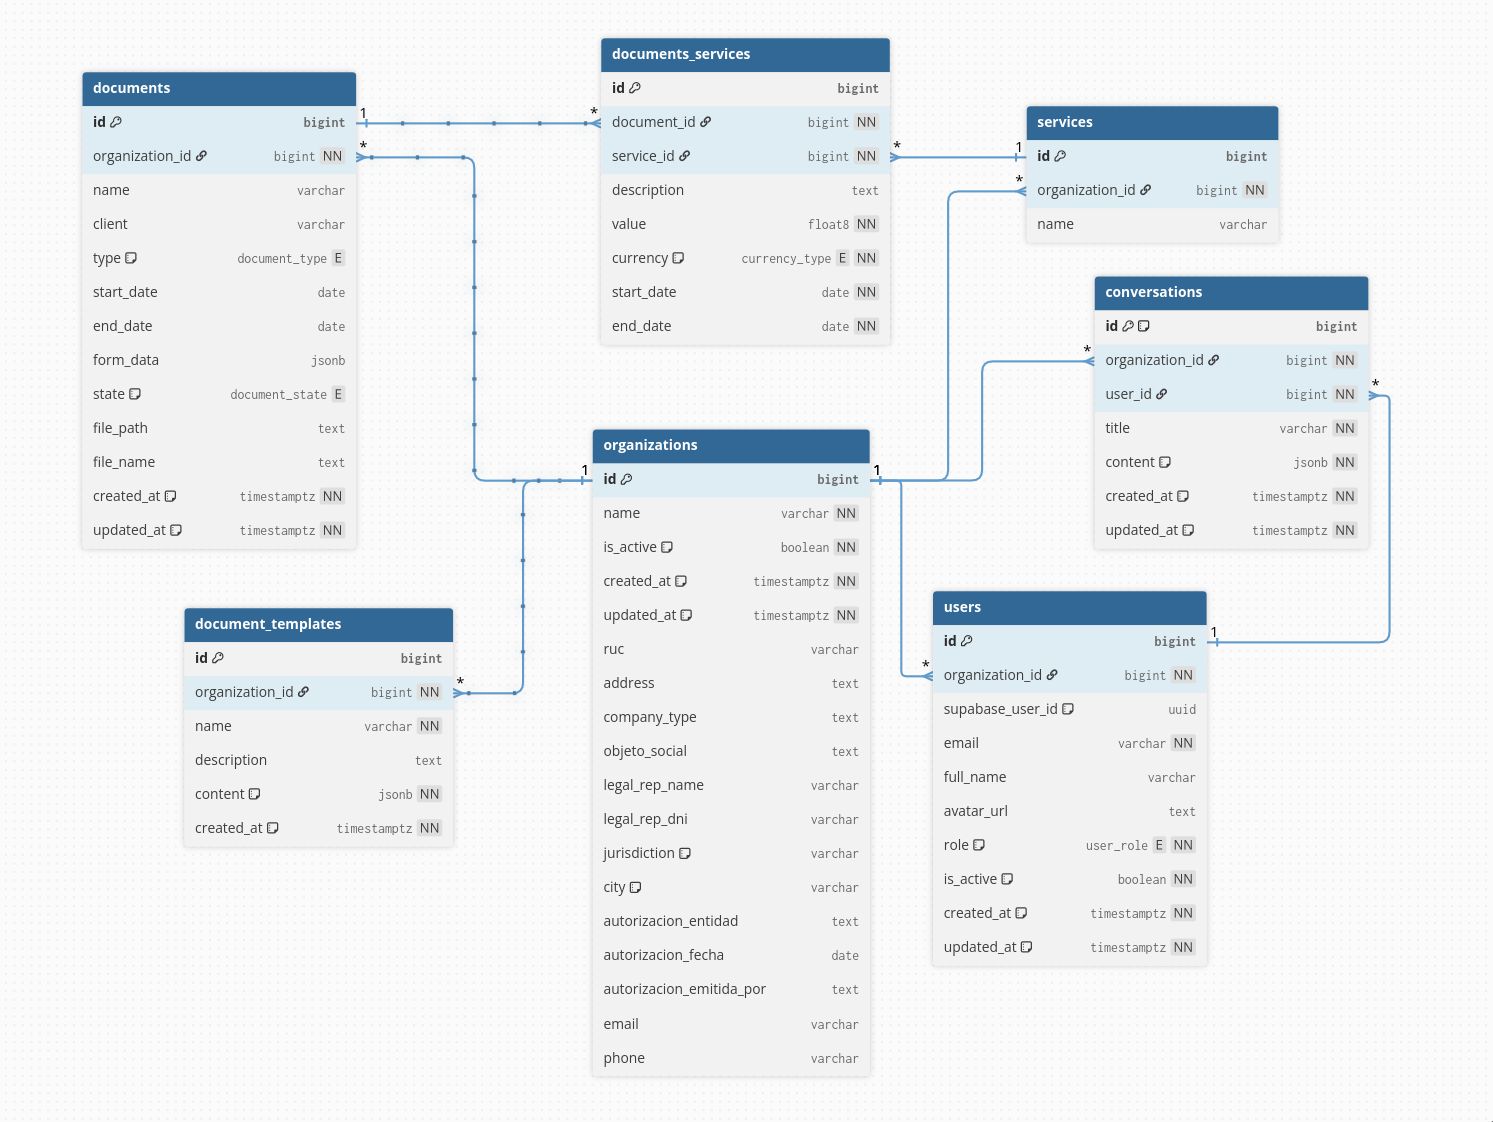
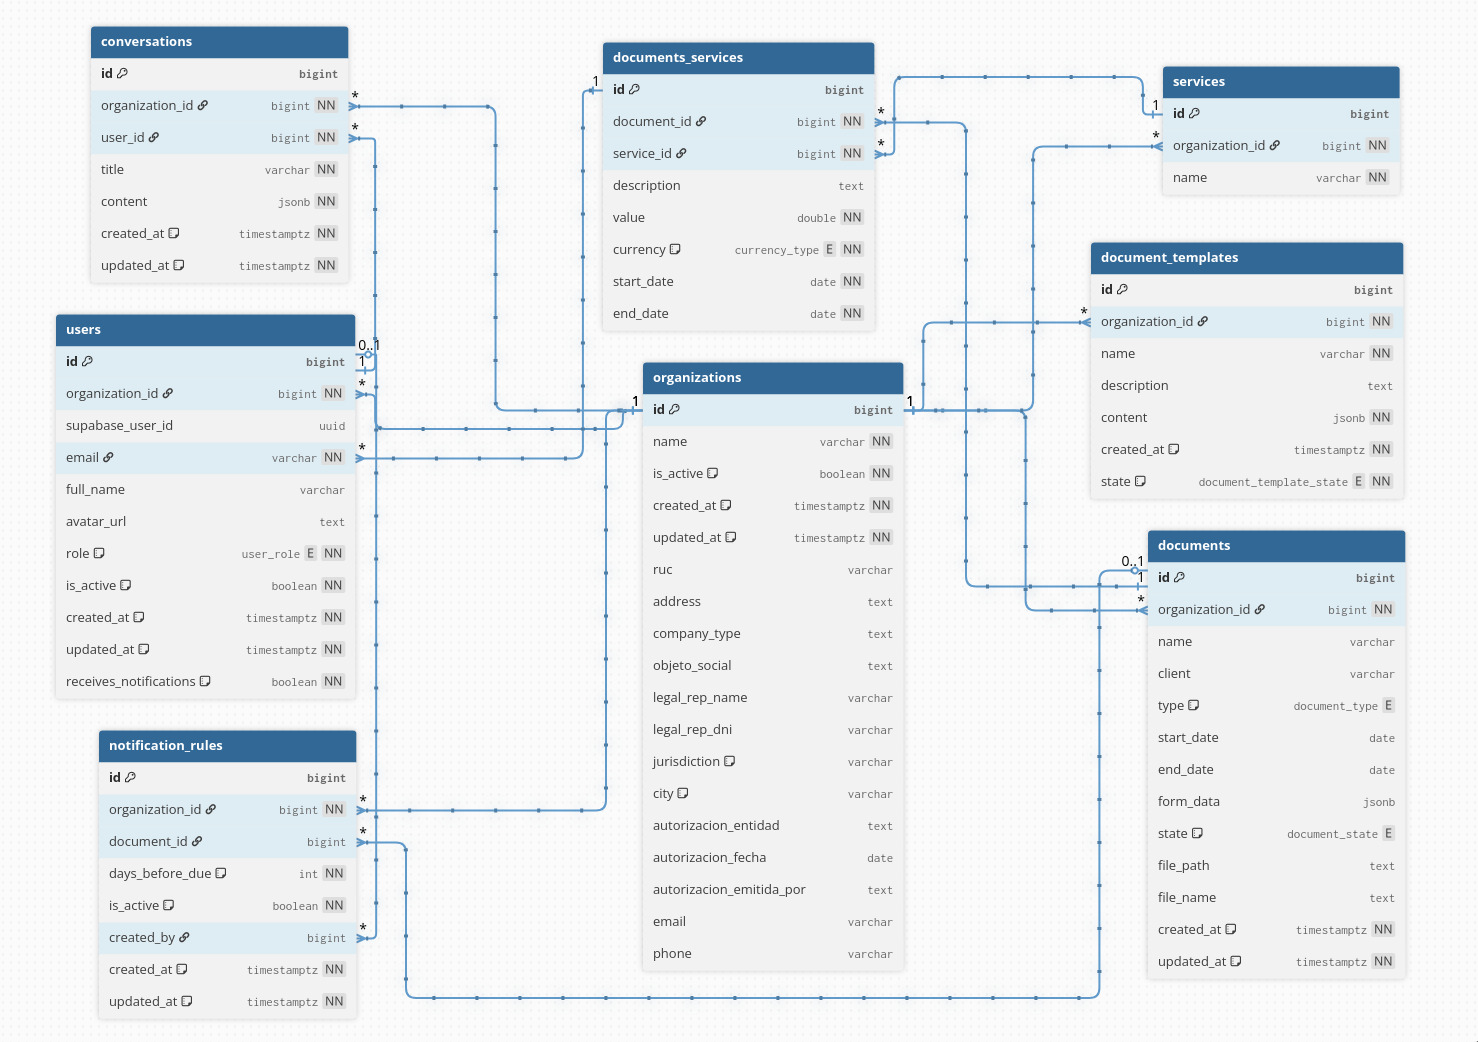
feat: update database schema with notification rules, expanded user roles, and refined document lifecycle states

diff --git a/astro/src/content/docs/es/base-datos/03-tablas-del-dominio.md b/astro/src/content/docs/es/base-datos/03-tablas-del-dominio.md
@@ -16,6 +16,7 @@ El esquema `public` concentra las tablas que modelan el dominio principal de Con
 | `documents_services` | Detalle economico y contractual por documento/servicio | `id` |
 | `conversations` | Historial conversacional visible para la aplicacion | `id` |
 | `document_templates` | Plantillas usadas para generacion documental | `id` |
+| `notification_rules` | Reglas de alerta por organizacion o por contrato | `id` |
 
 ## `public.organizations`
 
@@ -30,6 +31,7 @@ Es la tabla raiz del dominio. Desde aqui se organiza el aislamiento por empresa 
 - `services.organization_id -> organizations.id`
 - `conversations.organization_id -> organizations.id`
 - `document_templates.organization_id -> organizations.id`
+- `notification_rules.organization_id -> organizations.id`
 
 | Columna | Tipo | Detalle |
 |---------|------|---------|
@@ -74,10 +76,24 @@ Esta tabla conserva el usuario funcional del sistema. Complementa a `auth.users`
 | `email` | `varchar` | Correo del usuario |
 | `full_name` | `varchar` | Nombre mostrado en la aplicacion |
 | `avatar_url` | `text` | Referencia visual del usuario |
-| `role` | `user_role` | Rol de aplicacion: `WORKER`, `ADMIN` |
+| `role` | `user_role` | Rol de aplicacion: `WORKER`, `HR`, `MANAGER`, `ADMIN` |
+| `receives_notifications` | `boolean` | Indica si el usuario recibe alertas de contratos |
 | `is_active` | `boolean` | Estado logico del usuario |
 | `created_at` | `timestamptz` | Fecha de creacion |
 | `updated_at` | `timestamptz` | Fecha de actualizacion |
+
+### Semantica de `user_role`
+
+El enum `user_role` permite distinguir el alcance funcional esperado de cada usuario dentro de la aplicacion.
+
+- `WORKER`: usuario de consulta general. Puede revisar informacion operativa del sistema, pero no carga contratos, no los edita y no tiene acceso a la metadata financiera.
+- `HR`: usuario de recursos humanos. Puede cargar y dar seguimiento a contratos vinculados a trabajadores o personal y tiene acceso a metadata financiera de los trabajadores o personal.
+- `MANAGER`: usuario de gestion contractual. Puede cargar, editar y administrar contratos, ademas de consultar metadata financiera y datos estructurados ampliados.
+- `ADMIN`: usuario con control total. Puede administrar usuarios, configuraciones, facturacion, reglas operativas y supervision general de la plataforma.
+
+### Rol de `receives_notifications`
+
+El campo `receives_notifications` no reemplaza al rol, sino que lo complementa. Su objetivo es indicar si un usuario debe recibir alertas de vencimiento, independientemente del `user_role` que tenga asignado.
 
 ## `public.documents`
 
@@ -95,15 +111,33 @@ Guarda la cabecera del documento y la referencia al archivo asociado. El detalle
 | `organization_id` | `bigint` | Organizacion propietaria |
 | `name` | `varchar` | Nombre del documento |
 | `client` | `varchar` | Cliente asociado |
-| `type` | `document_type` | Tipo documental: `SERVICES`, `LICENSES`, `SUPPORT` |
+| `type` | `document_type` | Tipo documental: `COMPANY`, `LABOR` |
 | `start_date` | `date` | Inicio del periodo contractual |
 | `end_date` | `date` | Fin del periodo contractual |
 | `form_data` | `jsonb` | Estructura flexible con datos complementarios del documento |
-| `state` | `document_state` | Estado documental: `ACTIVE`, `PENDING`, `EXPIRED` |
+| `state` | `document_state` | Estado documental: `DRAFT`, `PENDING_SIGNATURE`, `ACTIVE`, `EXPIRING_SOON`, `EXPIRED`, `TERMINATED` |
 | `file_path` | `text` | Ruta tecnica del archivo en Storage |
 | `file_name` | `text` | Nombre del archivo asociado |
 | `created_at` | `timestamptz` | Fecha de creacion |
 | `updated_at` | `timestamptz` | Fecha de actualizacion |
+
+### Semantica de `document_type`
+
+El enum `document_type` separa la naturaleza general del contrato dentro del dominio.
+
+- `COMPANY`: contrato corporativo, comercial o institucional.
+- `LABOR`: contrato laboral o asociado a trabajadores y gestion de personal.
+
+### Semantica de `document_state`
+
+El enum `document_state` describe la situacion operativa del contrato dentro de su ciclo de vida.
+
+- `DRAFT`: contrato en preparacion o pendiente de revision.
+- `PENDING_SIGNATURE`: contrato ya preparado para circular, pero aun pendiente de firma.
+- `ACTIVE`: contrato vigente y fuera de la ventana activa de alerta.
+- `EXPIRING_SOON`: contrato vigente que ya entro en una ventana de notificacion definida por las reglas activas.
+- `EXPIRED`: contrato cuya vigencia ya concluyo por fecha.
+- `TERMINATED`: contrato cerrado o finalizado antes de su vencimiento natural.
 
 ### Como se organiza la informacion del documento
 
@@ -209,7 +243,39 @@ Conserva las plantillas base que el sistema utiliza para generar contratos por o
 | `name` | `varchar` | Nombre de la plantilla |
 | `description` | `text` | Descripcion funcional |
 | `content` | `jsonb` | Estructura base para renderizar el contrato |
+| `state` | `document_template_state` | Estado de la plantilla: `DRAFT`, `PUBLISHED`, `ARCHIVED` |
 | `created_at` | `timestamptz` | Fecha de creacion |
+
+## `public.notification_rules`
+
+Define las ventanas de alerta de vencimiento para una organizacion o para un contrato puntual.
+
+**Clave primaria:** `id`
+
+**Claves foraneas:**
+
+- `organization_id -> organizations.id`
+- `document_id -> documents.id` (opcional)
+- `created_by -> users.id` (opcional)
+
+| Columna | Tipo | Detalle |
+|---------|------|---------|
+| `id` | `bigint` | Identidad de la regla |
+| `organization_id` | `bigint` | Organizacion propietaria |
+| `document_id` | `bigint` | Contrato especifico al que aplica la regla; si es `null`, aplica como regla por defecto de la organizacion |
+| `days_before_due` | `integer` | Numero de dias previos al vencimiento que disparan la alerta |
+| `is_active` | `boolean` | Permite activar o desactivar la regla sin eliminarla |
+| `created_by` | `bigint` | Usuario que registro la regla |
+| `created_at` | `timestamptz` | Fecha de creacion |
+| `updated_at` | `timestamptz` | Fecha de actualizacion |
+
+### Resolucion de reglas de alerta
+
+La aplicacion resuelve las alertas con este orden:
+
+- si un contrato tiene reglas activas propias, se usan esas
+- si no tiene, hereda las reglas activas de la organizacion
+- si no existe configuracion, el backend usa un fallback temporal compatible con la version actual
 
 ### Estructura utilizada en `content`
 
@@ -228,8 +294,8 @@ La documentacion OpenAPI y el modelo fisico actual no estan completamente alinea
 
 | Tema | API documentada | Base real en Supabase |
 |------|------------------|-----------------------|
-| Tipo de documento | `SERVICIOS`, `LICENCIAS`, `SOPORTE` | `SERVICES`, `LICENSES`, `SUPPORT` |
-| Estado de documento | `ACTIVO`, `POR_VENCER`, `EXPIRADO` | `ACTIVE`, `PENDING`, `EXPIRED` |
+| Tipo de documento | `Empresa`, `Trabajador` | `COMPANY`, `LABOR` |
+| Estado de documento | `Borrador`, `Pendiente de firma`, `Activo`, `Por vencer`, `Expirado`, `Terminado` | `DRAFT`, `PENDING_SIGNATURE`, `ACTIVE`, `EXPIRING_SOON`, `EXPIRED`, `TERMINATED` |
 | Valor y moneda | En `DocumentResponse` | En `documents_services` y/o `form_data` |
 | Licencias | Campo expuesto por la API | No existe como columna en `public` |
 | Mensajes de conversacion | `sender` y `message` | `role`, `content`, `timestamp` |

diff --git a/astro/src/content/docs/es/base-datos/04-supabase-auth-y-seguridad.md b/astro/src/content/docs/es/base-datos/04-supabase-auth-y-seguridad.md
@@ -58,11 +58,14 @@ Los campos mas importantes para ese objetivo son:
 
 - `organization_id`
 - `role`
+- `receives_notifications`
 - `full_name`
 - `avatar_url`
 - `is_active`
 
 Con esta separacion, el sistema puede autenticar a un usuario con Supabase y, al mismo tiempo, mantener su relacion con una organizacion, su rol y su estado dentro del producto.
+
+El campo `role` define el perfil funcional del usuario dentro de la aplicacion, mientras que `receives_notifications` indica si participa como destinatario de alertas contractuales. Ambos campos se complementan, pero cumplen responsabilidades distintas dentro del modelo.
 
 ## Organizacion de la Seguridad
 
@@ -106,4 +109,5 @@ Con esa base, ContractIA puede:
 - autenticar usuarios con Google sin construir un sistema propio de login
 - asociar cada usuario a una organizacion
 - controlar roles de aplicacion sin depender del esquema interno de Auth
+- decidir si un usuario recibe alertas contractuales con `receives_notifications`
 - mantener una estructura lista para evolucionar el control de acceso en siguientes iteraciones